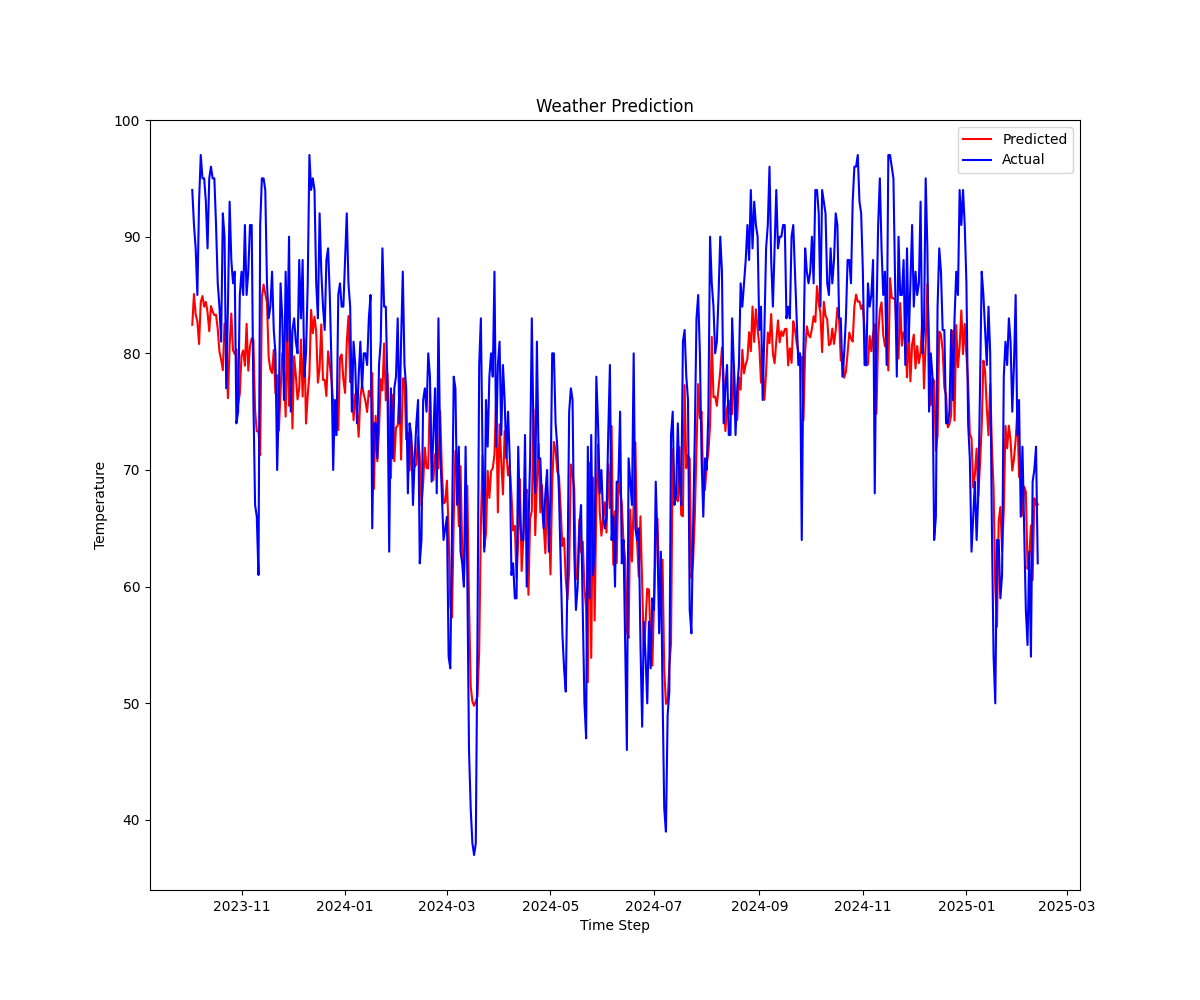
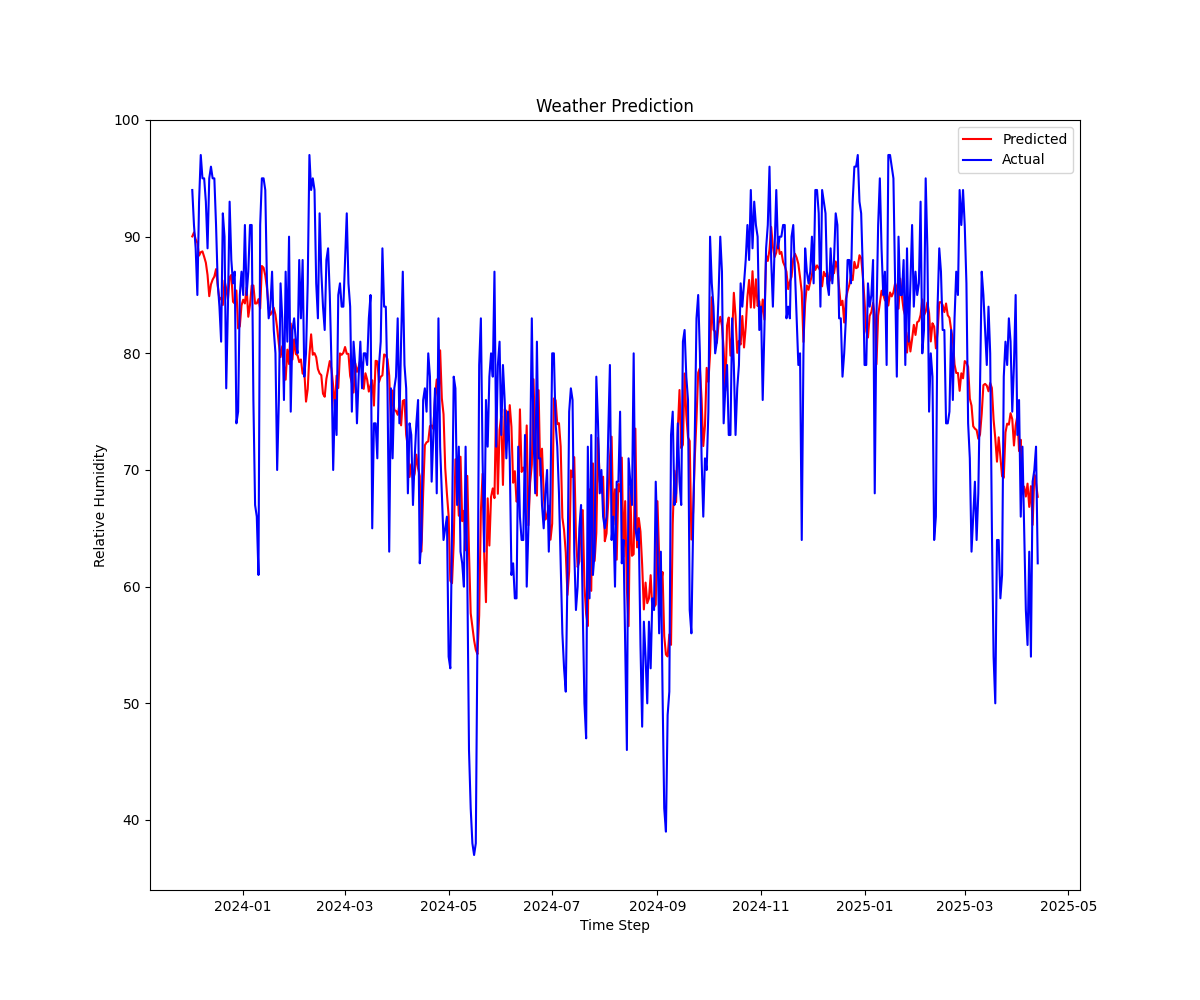
train with 2 feature temp_rh

diff --git a/src/test.py b/src/test.py
@@ -1,11 +1,16 @@
+import os
+import sys
+sys.path.append(os.path.abspath(os.path.join(os.path.dirname(__file__), '..')))
+
 import numpy as np
 import torch
 import matplotlib.pyplot as plt
 import pandas as pd
-import setting
-from split_data import create_inout_sequences
-import warnings
 from sklearn.metrics import mean_squared_error, mean_absolute_error, r2_score
+import warnings
+
+from src import setting
+from src.split_data import create_inout_sequences, create_inout_sequences_2feature
 
 warnings.filterwarnings("ignore")
 
@@ -35,15 +40,16 @@ batch_size = setting.batch_size  # Number of samples per batch
 
 seq_length = setting.seq_length  # Length of the input sequence
 
-# model = setting.LSTM_model.to(device)
-model = setting.Transformer_model.to(device)
+model = setting.LSTM_model.to(device)
+# model = setting.Transformer_model.to(device)
 
 state_dict = torch.load('./src/model/'+setting.path, map_location=device)
 model.load_state_dict(state_dict)
 model.eval()
 
 # Create input sequences for the test data
-X_test, y_test = create_inout_sequences(test_data, seq_length)
+# X_test, y_test = create_inout_sequences(test_data, seq_length)
+X_test, y_test = create_inout_sequences_2feature(test_data, seq_length)
 
 # Create DataLoader for the test data
 test_dataset = torch.utils.data.TensorDataset(X_test, y_test)
@@ -59,74 +65,72 @@ with torch.no_grad():
 
 predictions = np.concatenate(predictions, axis=0)
 # print(predictions.shape)
-extra_feature = test.values[:predictions.shape[0], 1:]
-predictions = np.concatenate((predictions, extra_feature), axis=1)
+# extra_feature = test.values[:predictions.shape[0], 1:]
+# predictions = np.concatenate((predictions, extra_feature), axis=1)
 # print(predictions.shape)
 
 predictions = scaler.inverse_transform(predictions)
-predictions = predictions[:, 0]
+# predictions = predictions[:, 0]
 
-y_test = y_test.cpu().numpy()
-y_test = y_test.reshape(-1, 1)
-y_test = np.concatenate((y_test, extra_feature), axis=1)
-y_test = scaler.inverse_transform(y_test)
-y_test = y_test[:, 0]
-# print(predictions.shape, y_test.shape)
+# y_test = y_test.cpu().numpy()
+# y_test = y_test.reshape(-1, 1)
+# y_test = np.concatenate((y_test, extra_feature), axis=1)
+y_test = scaler.inverse_transform(test[setting.seq_length:])
+# y_test = y_test[:, 0]
+print(predictions.shape, y_test.shape)
 
-y_train = scaler.inverse_transform(train)
-y_val = scaler.inverse_transform(val)
-y_train = y_train[:, 0]
-y_val = y_val[:, 0]
-# print(y_train.shape, y_val.shape)
-
-data_df = pd.DataFrame(data={'Prediction': predictions, 'Actual': y_test}, index=test.index[:predictions.shape[0]])
-train_df = pd.DataFrame(data={'Train': y_train}, index=train.index)
-val_df = pd.DataFrame(data={'Validation': y_val}, index=val.index)
+data_df = pd.DataFrame(data={'Prediction Temp': predictions[:, 0], 'Actual Temp': y_test[:, 0], 'Prediction Rh': predictions[:, 1], 'Actual Rh': y_test[:, 1]}, index=test.index[-predictions.shape[0]:])
 # Plot the predictions and actual values
-plt.figure(figsize=(12, 10))
-plt.plot(data_df['Prediction'], label='Predicted', color='red')
-plt.plot(data_df['Actual'], label='Actual', color='blue')
-plt.title('Weather Prediction')
-plt.xlabel('Time Step')
-plt.ylabel('Temperature')
-plt.legend()
-# plt.savefig(setting.images_path + 'weather_lstm_rh.png')
-plt.savefig(setting.images_path + 'weather_transformer_temp.png')
-plt.show()
-
-def smape(y_true, y_pred):
-    """
-    Symmetric Mean Absolute Percentage Error
-    """
-    denominator = (np.abs(y_true) + np.abs(y_pred)) / 2
-    diff = np.abs(y_true - y_pred) / denominator
-    diff[denominator == 0] = 0  # tránh chia cho 0
-    return 100 * np.mean(diff)
-
-def mape(y_true, y_pred):
-    """
-    Mean Absolute Percentage Error
-    """
-    y_true, y_pred = np.array(y_true), np.array(y_pred)
-    mask = y_true != 0  # tránh chia cho 0
-    return np.mean(np.abs((y_true[mask] - y_pred[mask]) / y_true[mask])) * 100
+def plot_temp(data_df):
+    plt.figure(figsize=(12, 10))
+    plt.plot(data_df['Prediction Temp'], label='Predicted', color='red')
+    plt.plot(data_df['Actual Temp'], label='Actual', color='blue')
+    plt.title('Weather Prediction')
+    plt.xlabel('Time Step')
+    plt.ylabel('Temperature')
+    plt.legend()
+    plt.savefig(setting.images_path + 'weather_lstm_temp.png')
+    # # plt.savefig(setting.images_path + 'weather_transformer_temp_rh.png')
+    plt.show()
+def plot_rh(data_df):
+    plt.figure(figsize=(12, 10))
+    plt.plot(data_df['Prediction Rh'], label='Predicted', color='red')
+    plt.plot(data_df['Actual Rh'], label='Actual', color='blue')
+    plt.title('Weather Prediction')
+    plt.xlabel('Time Step')
+    plt.ylabel('Relative Humidity')
+    plt.legend()
+    plt.savefig(setting.images_path + 'weather_lstm_rh.png')
+    # # plt.savefig(setting.images_path + 'weather_transformer_temp_rh.png')
+    plt.show()
 
 def evaluate_model(y_true, y_pred, name=""):
     """
     Đánh giá mô hình với các metric phổ biến trong dự báo thời tiết
     """
-    mae = mean_absolute_error(y_true, y_pred)
-    rmse = np.sqrt(mean_squared_error(y_true, y_pred))
-    r2 = r2_score(y_true, y_pred)
-    mape_val = mape(y_true, y_pred)
-    smape_val = smape(y_true, y_pred)
+    y_temp_true = y_true[:, 0]
+    y_temp_pred = y_pred[:, 0]
+    y_rh_true = y_true[:, 1]
+    y_rh_pred = y_pred[:, 1]
+    mae_temp = mean_absolute_error(y_temp_true, y_temp_pred)
+    rmse_temp = np.sqrt(mean_squared_error(y_temp_true, y_temp_pred))
+    r2_temp = r2_score(y_temp_true, y_temp_pred)
+    
+    mae_rh = mean_absolute_error(y_rh_true, y_rh_pred)
+    rmse_rh = np.sqrt(mean_squared_error(y_rh_true, y_rh_pred))
+    r2_rh = r2_score(y_rh_true, y_rh_pred)
+    
 
     print(f"Kết quả đánh giá cho mô hình: {name}")
-    print(f"MAE   : {mae:.4f}")
-    print(f"RMSE  : {rmse:.4f}")
-    print(f"R²    : {r2:.4f}")
-    print(f"MAPE  : {mape_val:.2f}%")
-    print(f"SMAPE : {smape_val:.2f}%")
+    print(f"MAE:")
+    print(f"    Temp: {mae_temp:.2f} °C")
+    print(f"    RH  : {mae_rh:.2f} %")
+    print(f"RMSE:")
+    print(f"    Temp: {rmse_temp:.2f} °C")
+    print(f"    RH  : {rmse_rh:.2f} %")
+    print(f"R²:")
+    print(f"    Temp: {r2_temp:.2f}")
+    print(f"    RH  : {r2_rh:.2f}")
     
     # return {
     #     "MAE": mae,
@@ -138,3 +142,5 @@ def evaluate_model(y_true, y_pred, name=""):
 
 # evaluate_model(y_test, predictions, name="LSTM")
 evaluate_model(y_test, predictions, name="Transformer")
+plot_temp(data_df)
+plot_rh(data_df)

diff --git a/src/split_data.py b/src/split_data.py
@@ -1,16 +1,18 @@
+import os
+import sys
+sys.path.append(os.path.abspath(os.path.join(os.path.dirname(__file__), '..')))
+
 import numpy as np
 from sklearn.preprocessing import MinMaxScaler
 import joblib
 import pandas as pd
-import os
 import warnings
-import setting
 import torch
 
-train_size = setting.train_size
-val_size = setting.val_size
-test_size = setting.test_size
-device = setting.device
+train_size = 0.8
+val_size = 0.1
+test_size = 0.1
+device = torch.device('cuda' if torch.cuda.is_available() else 'cpu')
 
 warnings.filterwarnings("ignore")
 
@@ -26,6 +28,23 @@ def create_inout_sequences(data, seq_length):
     for i in range(seq_length, L):
         train_seq = data[i-seq_length:i]
         train_label = data[i][0]  # Assuming the label is the first feature
+        X.append(train_seq)
+        y.append(train_label)
+    X, y = np.array(X), np.array(y)
+    X_tensor = torch.tensor(X, dtype=torch.float32).to(device)
+    y_tensor = torch.tensor(y, dtype=torch.float32).to(device)
+    return X_tensor, y_tensor
+
+def create_inout_sequences_2feature(data, seq_length):
+    data['time'] = pd.to_datetime(data['time'], format='%Y-%m-%d')
+    columns = data.columns[1:]
+    data = data[columns].copy()
+    data = data.values
+    X, y = [], []
+    L = len(data)
+    for i in range(seq_length, L):
+        train_seq = data[i-seq_length:i]
+        train_label = data[i]  # Assuming the label is the first feature
         X.append(train_seq)
         y.append(train_label)
     X, y = np.array(X), np.array(y)
@@ -79,13 +98,20 @@ if __name__ == "__main__":
     df_daily = df_daily.set_index('time')
     df_daily = df_daily.sort_index(ascending=True)
     
+    # Temperature data
     daily_data_temp = df_daily[['temperature_2m_mean (°C)', 'soil_temperature_0_to_7cm_mean (°C)', 'et0_fao_evapotranspiration_sum (mm)', 'relative_humidity_2m_mean (%)', 'soil_moisture_0_to_7cm_mean (m³/m³)']].copy()
     split_data(daily_data_temp, path='./data/daily/temp/')
     joblib.dump(scaler, './data/scaler_temp.save')
     
+    # Relative Humidity data
     daily_data_rh = df_daily[['relative_humidity_2m_mean (%)', 'soil_moisture_0_to_7cm_mean (m³/m³)', 'cloud_cover_mean (%)', 'temperature_2m_mean (°C)', 'soil_temperature_0_to_7cm_mean (°C)', 'et0_fao_evapotranspiration_sum (mm)']].copy()
     split_data(daily_data_rh, path='./data/daily/rh/')
     joblib.dump(scaler, './data/scaler_rh.save')
+    
+    # Temperature and Relative Humidity data
+    daily_data_temp_rh = df_daily[['temperature_2m_mean (°C)', 'relative_humidity_2m_mean (%)']].copy()
+    split_data(daily_data_temp_rh, path='./data/daily/temp_rh/')
+    joblib.dump(scaler, './data/scaler_temp_rh.save')
     
     # Hourly data
     df_hourly = pd.read_csv('./data/data_hourly-2023_2025.csv', skiprows=2)

diff --git a/src/train.py b/src/train.py
@@ -1,12 +1,16 @@
+import os
+import sys
+sys.path.append(os.path.abspath(os.path.join(os.path.dirname(__file__), '..')))
+
 import torch
 import torch.optim as optim
 import torch.nn as nn
 import pandas as pd
-import os
 import matplotlib.pyplot as plt
-import setting
-from split_data import create_inout_sequences
 import warnings
+
+from src import setting
+from src.split_data import create_inout_sequences, create_inout_sequences_2feature
 
 warnings.filterwarnings("ignore")
 
@@ -40,8 +44,11 @@ criterion = nn.MSELoss()
 optimizer = optim.Adam(model.parameters(), lr=learning_rate)
 
 def create_dataloader(train_data, val_data, seq_length, batch_size):
-    X_train, y_train = create_inout_sequences(train_data, seq_length)
-    X_val, y_val = create_inout_sequences(val_data, seq_length)
+    # X_train, y_train = create_inout_sequences(train_data, seq_length)
+    # X_val, y_val = create_inout_sequences(val_data, seq_length)
+    
+    X_train, y_train = create_inout_sequences_2feature(train_data, seq_length)
+    X_val, y_val = create_inout_sequences_2feature(val_data, seq_length)
 
     train_dataset = torch.utils.data.TensorDataset(X_train, y_train)
     val_dataset = torch.utils.data.TensorDataset(X_val, y_val)
@@ -61,7 +68,8 @@ def train_model(model, train_loader, val_loader, criterion, optimizer, num_epoch
         for i, (X_batch, y_batch) in enumerate(train_loader):
             optimizer.zero_grad()
             y_pred = model(X_batch)
-            loss = criterion(y_pred, y_batch.view(-1, 1))
+            # loss = criterion(y_pred, y_batch.view(-1, 1))
+            loss = criterion(y_pred, y_batch)
             loss.backward()
             optimizer.step()
             total_loss += loss.item()
@@ -75,7 +83,8 @@ def train_model(model, train_loader, val_loader, criterion, optimizer, num_epoch
         with torch.no_grad():
             for X_batch, y_batch in val_loader:
                 y_pred = model(X_batch)
-                val_loss += criterion(y_pred, y_batch.view(-1, 1)).item()
+                # val_loss += criterion(y_pred, y_batch.view(-1, 1)).item()
+                val_loss += criterion(y_pred, y_batch).item()
 
         val_loss /= len(val_loader)
         val_history_loss.append(val_loss)
@@ -96,7 +105,7 @@ def train_model(model, train_loader, val_loader, criterion, optimizer, num_epoch
 
     if not os.path.exists(path_image):
         os.makedirs(path_image)
-    plt.savefig(path_image+'loss_lstm_temp.png')
+    plt.savefig(path_image+'loss_lstm.png')
     # plt.savefig(path_image+'loss_transformer_temp.png')
     plt.show() 
     

diff --git a/GUI/streamlit.py b/GUI/streamlit.py
@@ -1,11 +1,9 @@
-import streamlit as st
-import sys
-import torch
 import os
+import sys
+sys.path.append(os.path.abspath(os.path.join(os.path.dirname(__file__), '..')))
+
+import streamlit as st
 from src import setting
-
-
-sys.path.append(os.path.abspath(os.path.join(os.path.dirname(__file__), '..', '..')))
 
 input_size = setting.input_size
 hidden_size = setting.hidden_size
